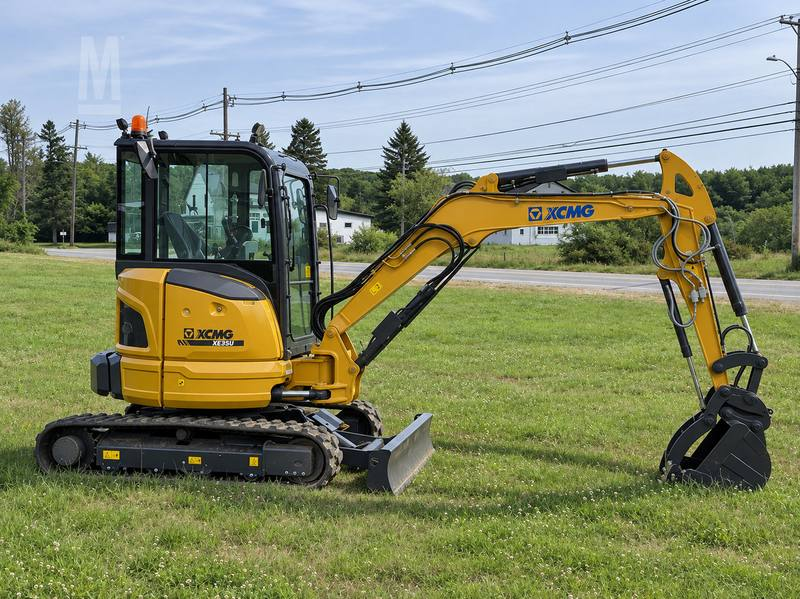
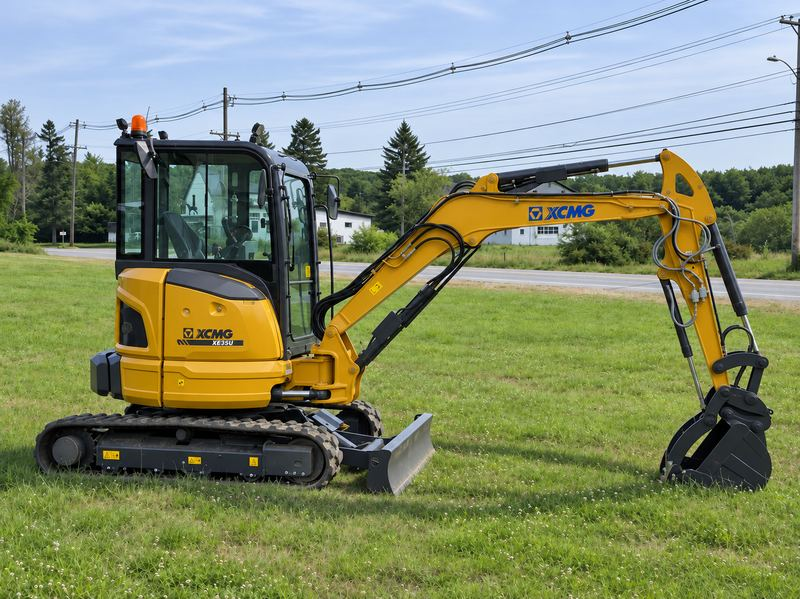
feat(rental): foto nueva de la miniexcavadora XCMG XE35U, sin marca de agua

diff --git a/apps/rental/src/components/Foto.tsx b/apps/rental/src/components/Foto.tsx
@@ -4,7 +4,7 @@ const CON_VARIANTE = /^\/images\/maquinarias\/(retroexcavadora-hmk-102b|minicarg
 const ANCHO: Record<string, number> = {
   'retroexcavadora-hmk-102b': 1600, 'minicargador-bobcat-s650': 1600, 'minicargador-bobcat-s570': 1200,
   'camion-tolva-vw-constellation': 1600, 'plataforma-fullen-psc140': 1600, 'plataforma-genie-gs1930': 1440,
-  'brazo-articulado-jlg-e450aj': 1110, 'miniexcavadora-xcmg-xe35u': 1228,
+  'brazo-articulado-jlg-e450aj': 1110, 'miniexcavadora-xcmg-xe35u': 1449,
 };
 
 /** El celular baja la versión de 800 px. La foto grande siempre se sirve en JPG
